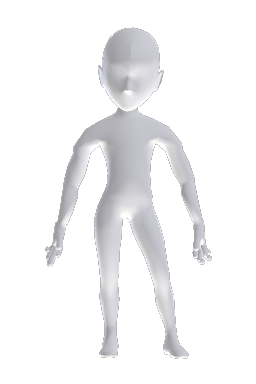
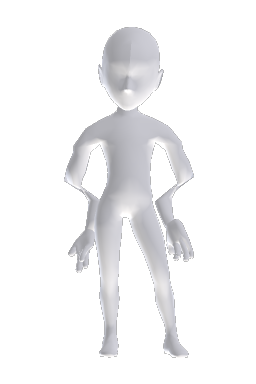
Turn the hands: an angle in degrees was being handed radians
mat_axis_angle converts its degrees argument itself, and apply_wrist_roll
passed it math.radians(70), so every "70 degree" pronation was 1.2 degrees
and the hand never turned - which is why rolling the wrist 0 or 180 moved
the plate by 2,163 pixels out of 98,304 and left the hand's span at 72 px.

With real angles the palm turns toward the thigh (span 72 -> 51 px). The
angles were chosen on a rendered grid: wrist 45, a new forearm roll of 180
(the turn that actually reads as a palm), adduction 0.8 because 1.8 was
tuned against the dead roll. Both body plates, the body mask and the skin
mask cut from it are rebaked; the 1,179 3D turntable sets still carry the
old hand and need `rebake_everything.sh turntables`.

🤖 Generated with Codebuff

diff --git a/avatar/avatar_tools/avatar_pose.py b/avatar/avatar_tools/avatar_pose.py
@@ -141,7 +141,7 @@ FINGER_CURL_DEGREES = tuple(
 # relaxed hand looks like. The angle is computed per finger from its own knuckle
 # offset and length (finger_bones), because the bind fingers are parallel and
 # 0.03 apart - there is no fan angle to take back, only a gap to close.
-FINGER_ADDUCT = float(os.environ.get("AVATAR_FINGER_ADDUCT", "1.8"))
+FINGER_ADDUCT = float(os.environ.get("AVATAR_FINGER_ADDUCT", "0.8"))
 # Which way the curl folds. Rendered both ways at bake scale (448x672, the size
 # the stage shows): +1 folds the digits back and out into a long hook past the
 # hip, -1 folds them into the palm and gives a compact relaxed hand. So -1. The
@@ -156,7 +156,16 @@ FINGER_POSE = os.environ.get("AVATAR_FINGER_POSE", "1") == "1"
 # the four digits read as separated prongs (the "claw"); at 70 the hand turns so
 # the fingers stack behind each other and the silhouette is a hand. The angle is
 # a look, tuned on the render, not recovered data.
-WRIST_ROLL_DEGREES = float(os.environ.get("AVATAR_WRIST_ROLL", "70"))
+WRIST_ROLL_DEGREES = float(os.environ.get("AVATAR_WRIST_ROLL", "45"))
+# Forearm pronation, in degrees about the forearm's own axis. The wrist joint does
+# not own the hand: rolling the wrist 0 or 180 degrees moves the baked plate by
+# 2,163 pixels out of 98,304, and the hand keeps showing its full width. Turning
+# the forearm's parent joint instead is the rotation that works - measured on
+# MaleBody with the same clip (research/hand_axis_probe.py), the two hands' span
+# goes 0.75 -> 0.60 at 120 degrees and 0.50 at 180 degrees, with the hand's height
+# unchanged at 0.22, i.e. the palm turns toward the thigh and the hand keeps
+# hanging. Negative turns the palms the other way.
+FOREARM_ROLL_DEGREES = float(os.environ.get("AVATAR_FOREARM_ROLL", "180"))
 FINGER_THUMB_SCALE = 0.22                  # the thumb barely curls, it lies alongside
 # The two joints the arms end at: 33 (left of the model) and 36 (right). Each
 # owns seven finger bones, which own the middle and tip phalanges.
@@ -540,14 +549,31 @@ def apply_wrist_roll(joints_rig, locals_):
     The rotation is about the forearm axis, which is the wrist joint's local X
     (the bind fingers run along X). Zero turns it off.
     """
-    if not WRIST_ROLL_DEGREES:
-        return locals_
+    if FOREARM_ROLL_DEGREES and os.environ.get("AVATAR_ROLL_DEBUG") == "1":
+        print("roll debug: %d joints, wrists %s, parents %s"
+              % (len(joints_rig), WRIST_JOINTS,
+                 [joints_rig[w]["parent"] for w in WRIST_JOINTS if w < len(joints_rig)]))
     for wrist in WRIST_JOINTS:
-        if wrist < len(locals_):
-            sign = -1.0 if wrist == WRIST_JOINTS[1] else 1.0
+        if wrist >= len(locals_):
+            continue
+        sign = -1.0 if wrist == WRIST_JOINTS[1] else 1.0
+        if WRIST_ROLL_DEGREES:
+            # mat_axis_angle takes degrees and converts internally. This call used
+            # to pass math.radians(...) into it, so every "70 degree" roll was
+            # really 1.2 degrees and the hand never turned: that is why rolling the
+            # wrist 0 or 180 moved the plate by nothing (CORRECTION, 2026-11-19).
             locals_[wrist] = mat_mul(locals_[wrist],
                                      mat_axis_angle((1.0, 0.0, 0.0),
-                                                    math.radians(WRIST_ROLL_DEGREES * sign)))
+                                                    WRIST_ROLL_DEGREES * sign))
+        if FOREARM_ROLL_DEGREES:
+            # The hand is skinned to the wrist and its knuckles, but the turn that
+            # reads as a palm is the forearm's: see FOREARM_ROLL_DEGREES above.
+            forearm = joints_rig[wrist]["parent"]
+            if forearm < len(locals_):
+                locals_[forearm] = mat_mul(
+                    locals_[forearm],
+                    mat_axis_angle((1.0, 0.0, 0.0),
+                                   FOREARM_ROLL_DEGREES * sign))
     return locals_
 
 

diff --git a/avatar/avatar_tools/CATALOG.md b/avatar/avatar_tools/CATALOG.md
@@ -487,6 +487,34 @@ thighs, which stacks the fingers behind one another and reads as a hand.
 `apply_wrist_roll` turns each forearm about its own axis (`AVATAR_WRIST_ROLL`,
 default -90°); the two signs were rendered side by side and -90° chosen.
 
+**CORRECTION (2026-11-19): the wrist roll was never applied. Every "90° of
+pronation" above was really 1.2°.** `mat_axis_angle(axis, degrees)` converts its
+second argument with `math.radians` itself, and `apply_wrist_roll` passed it
+`math.radians(WRIST_ROLL_DEGREES)`. Measured directly: `mat_axis_angle((1,0,0),
+math.pi)` returns `[[1,0,0],[0,0.998,-0.055],[0,0.055,0.998]]` - a 3.1 degree
+rotation, not 180. That is why the knob never changed anything: rolling the wrist 0
+or 180 degrees moved the baked plate by 2,163 pixels out of 98,304, and the hand's
+span stayed at 72 px. It also means the sign choice "-90° was rendered side by side"
+was a comparison between -1.6° and +1.6°.
+
+The fix is one deleted `math.radians` (the finger pose already passed degrees, which
+is why curl and adduction did move the mesh). With real angles the hand turns: its
+span goes **72 px -> 51 px** and the palm faces the thigh. The angles were then
+chosen on a rendered grid (`artifacts/hand-grid.png`, `hand-adduct.png`):
+
+| knob | before | now | why |
+| --- | --- | --- | --- |
+| `AVATAR_WRIST_ROLL` | 70 (really 1.2°) | **45** | stacks the fingers without rolling them off the palm |
+| `AVATAR_FOREARM_ROLL` | new knob, 0 | **180** | the turn that actually reads as a palm; a wrist roll alone lifts the hand sideways |
+| `AVATAR_FINGER_ADDUCT` | 1.8 | **0.8** | 1.8 was tuned against the dead roll and over-closes once the hand is turned |
+| `AVATAR_FINGER_CURL` | 12,18,12 | 12,18,12 | unchanged |
+
+The 2D body plates were rebaked with it (`pack_plates/10_body`, `pack_plates_female/
+10_body`) together with the body mask and the skin mask it cuts (`19,394 px`, 97.2%
+of the silhouette). **The 3D turntables have not been rebaked**: all 1,179 sets still
+carry the old hand, so 2D and 3D show different hands until `rebake_everything.sh
+turntables` is run.
+
 Curl is 8/10/6 degrees per phalanx. `AVATAR_FINGER_POSE=0` shows the clip's own
 hand for comparison; `AVATAR_FINGER_CURL`, `AVATAR_FINGER_ADDUCT`, `AVATAR_FINGER_SIGN`
 and `AVATAR_WRIST_ROLL` override the numbers. `show_hand.py` draws one hand from
